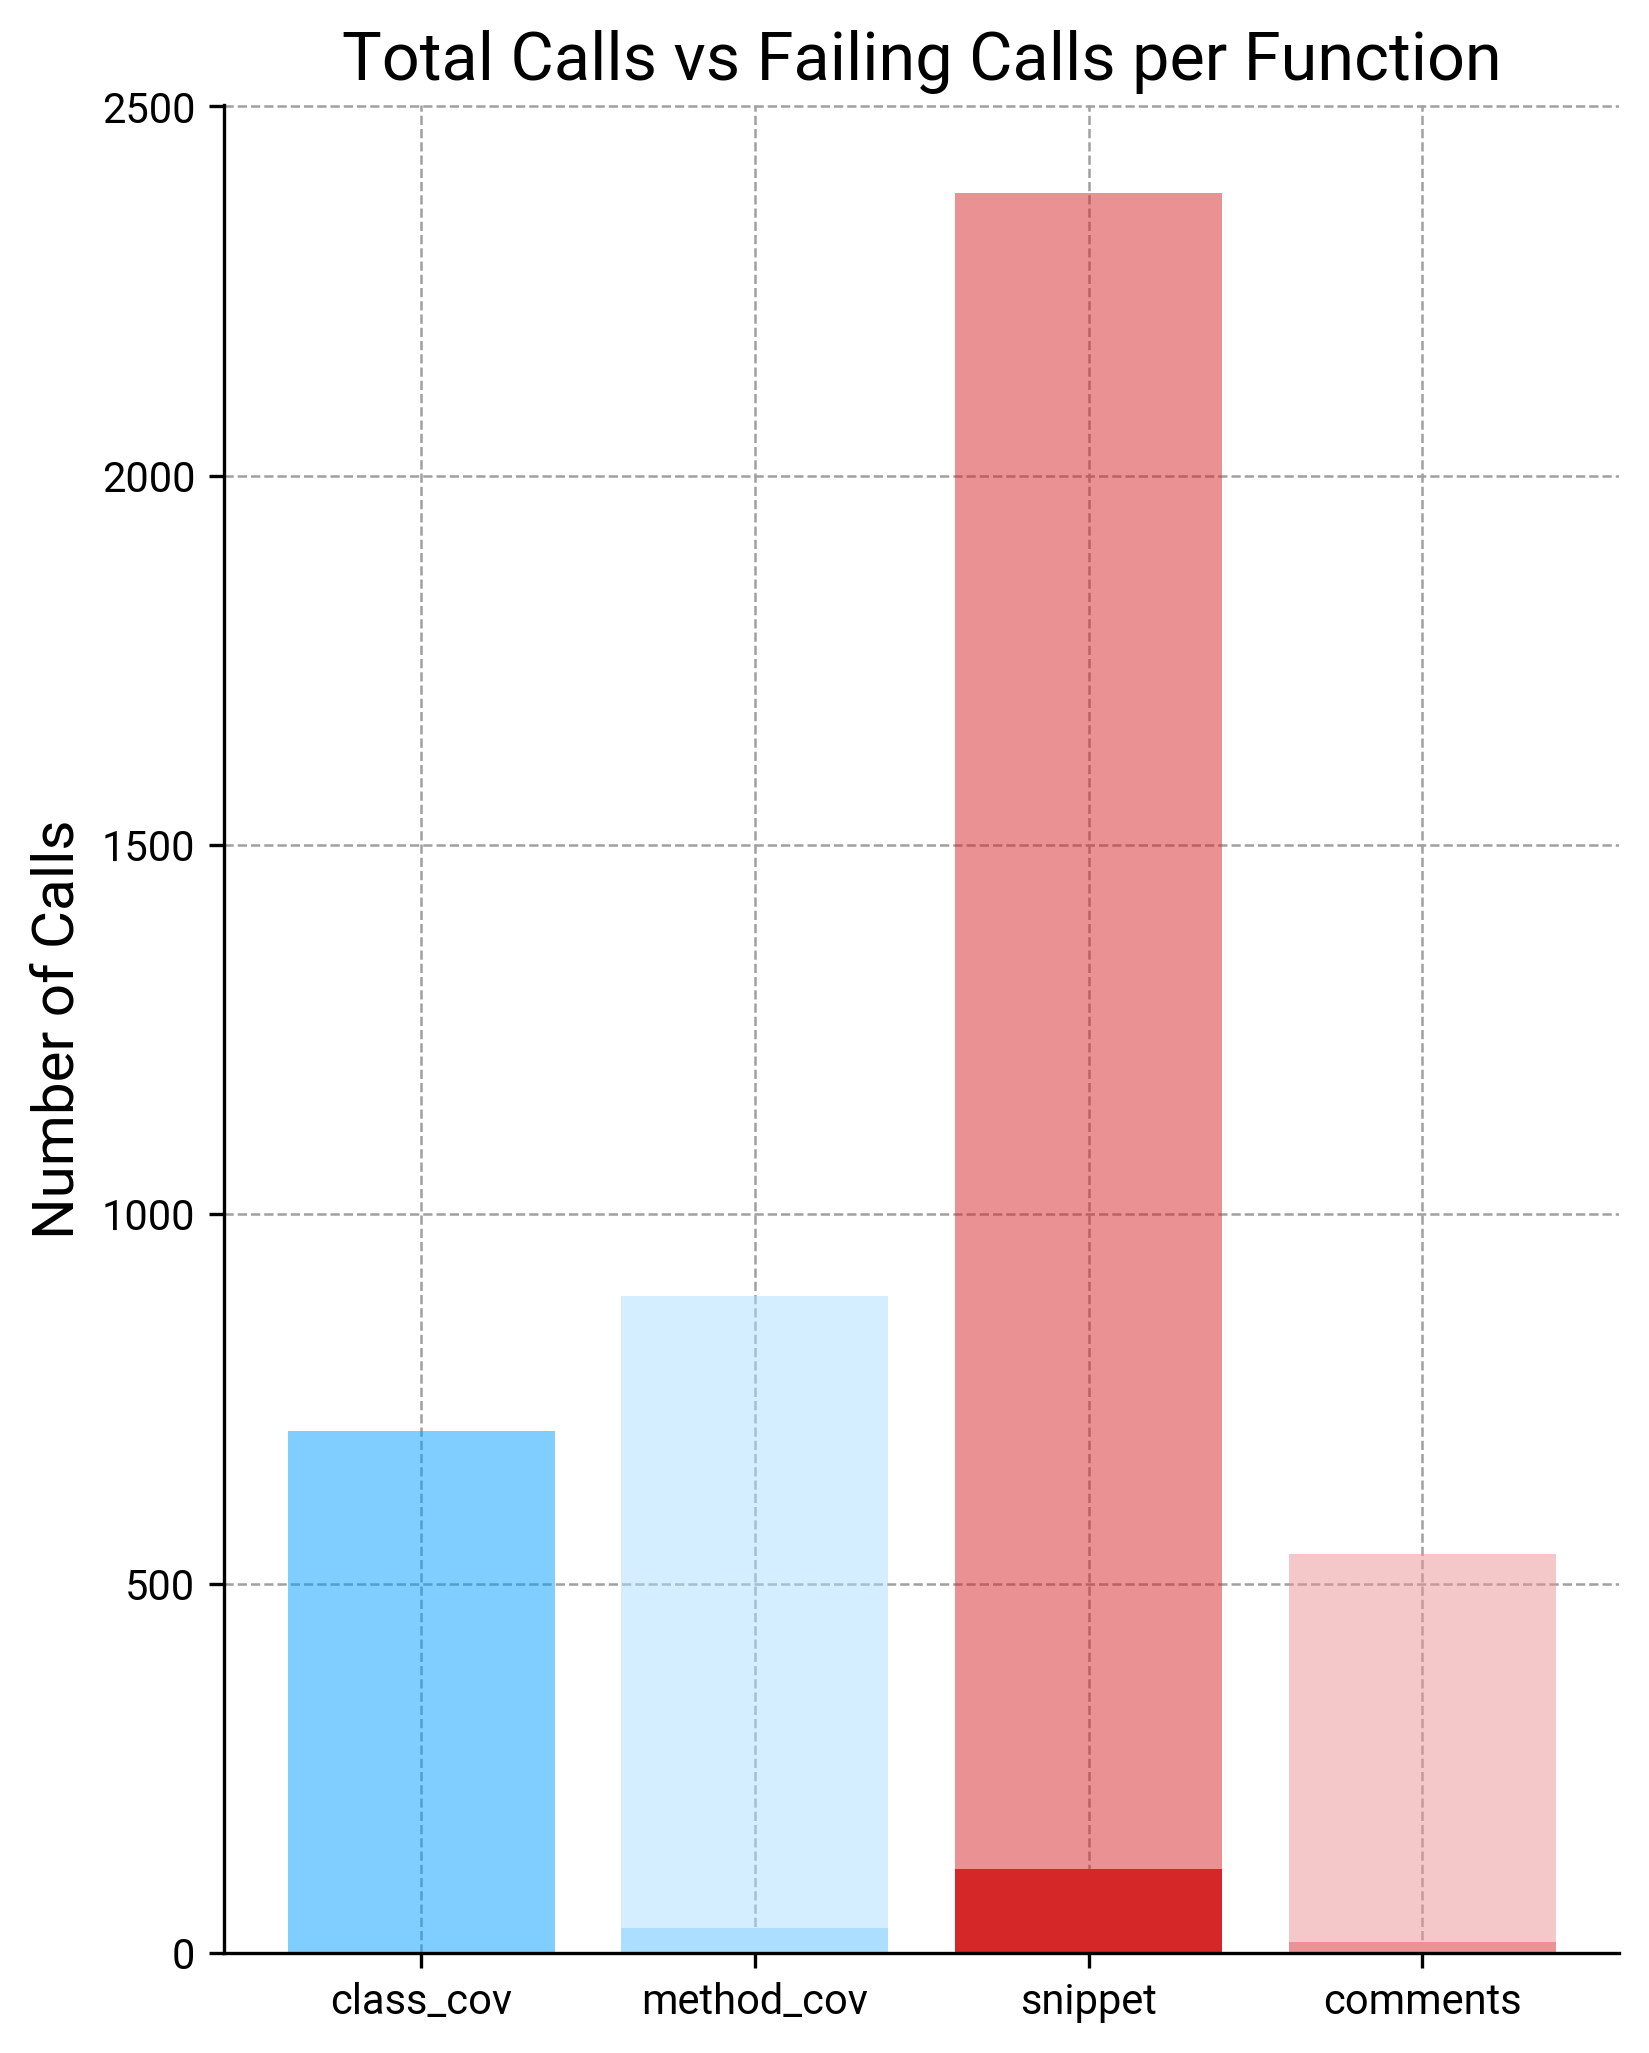
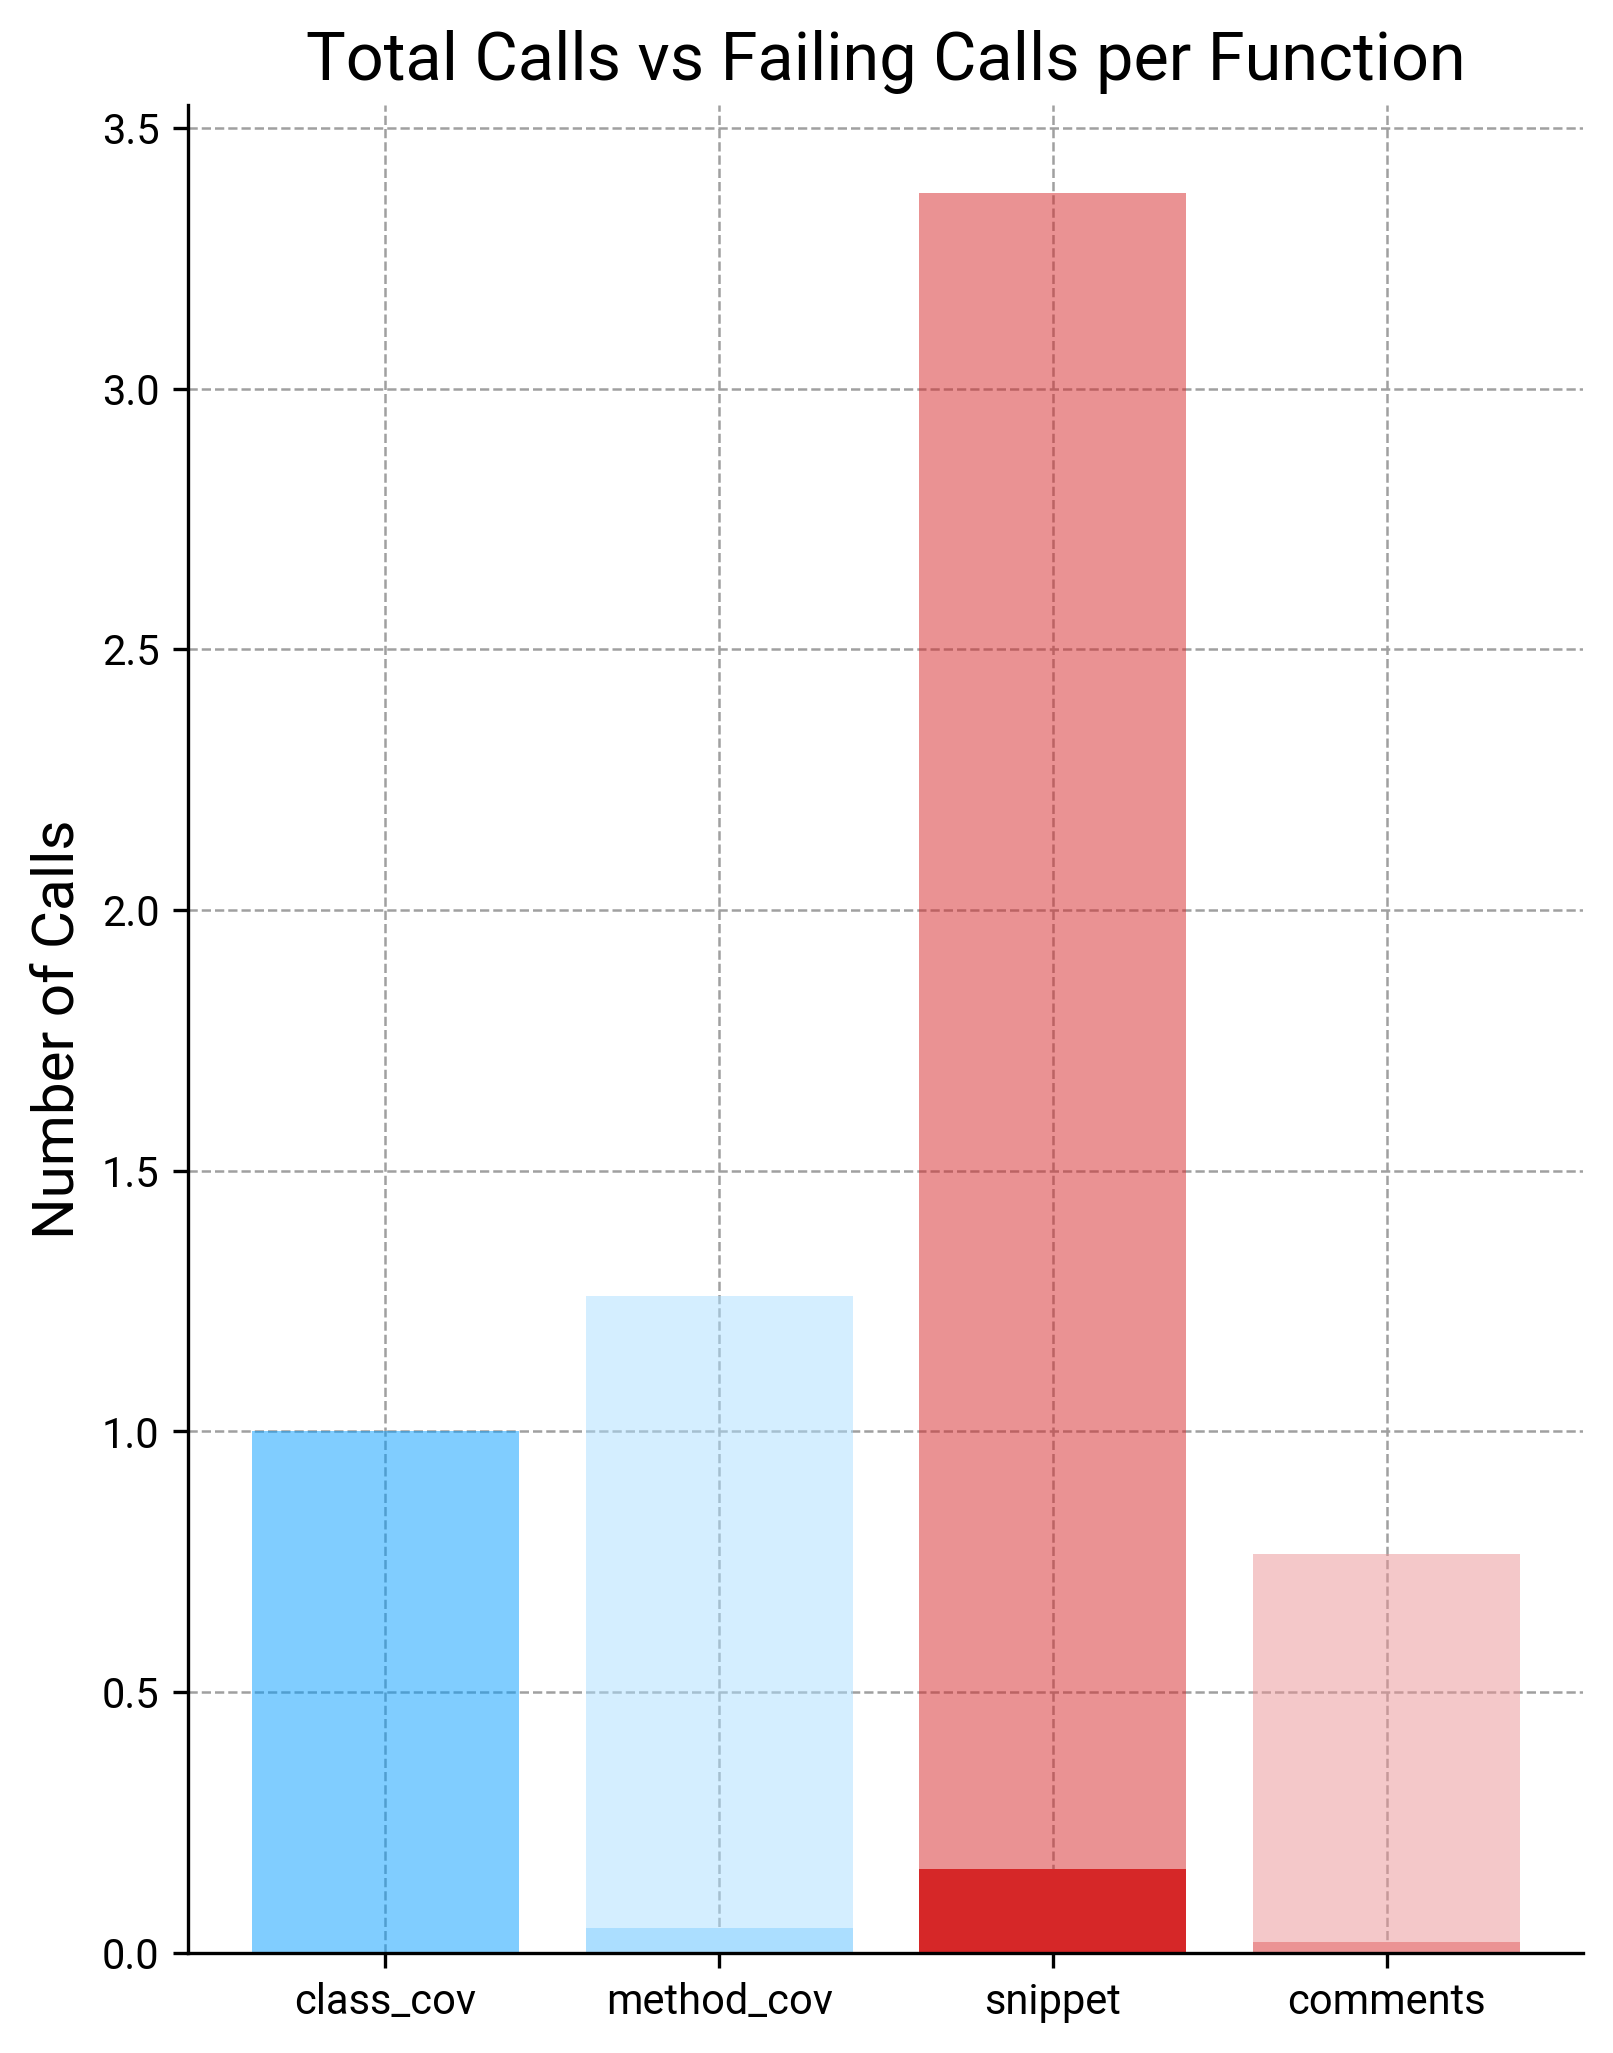
feat: normalize calls by num of runs / order bars of failure charts

diff --git a/analyze_function_calls.py b/analyze_function_calls.py
@@ -4,6 +4,11 @@ import argparse
 import matplotlib.pyplot as plt
 import numpy as np
 
+# for defects4j
+FUNCTION_INDICES = {'get_failing_tests_covered_classes': 0, 'get_failing_tests_covered_methods_for_class': 1,
+        'get_code_snippet': 2, 'get_comments': 3}
+FUNCTION_COLORS = ['039dff', 'ABDEFF', 'd62728', 'EB9394', '000000']
+FUNCTION_LABELS = ['class_cov', 'method_cov', 'snippet', 'comments', 'undefined']
 
 def file2bug(json_file):
     if not json_file.endswith(".json"):
@@ -57,19 +62,14 @@ def analyze_function_calls(result_dirs, project=None):
     
     return calls_by_step, total_calls, failing_calls
 
-def plot_horizontal_cumulative_bar_chart(data, path):
+def plot_call_distribution(data, total_runs, path):
     MAX_STEPS=11
     plt.style.use('style/style-formal.mplstyle')
-    func_indices = {'get_failing_tests_covered_classes': 0, 'get_failing_tests_covered_methods_for_class': 1,
-          'get_code_snippet': 2, 'get_comments': 3} # for defects4j
-    colors=['039dff', 'ABDEFF', 'd62728', 'EB9394', '000000']
-    func_labels = ['class_cov', 'method_cov', 'snippet', 'comments', 'undefined']
 
     labels = list(data.keys())
-    total_runs = data[labels[0]][0]
    
-    undefined_functions = [l for l in labels if l not in func_indices]
-    labels = sorted([l for l in labels if l in func_indices], key=lambda label: func_indices[label])
+    undefined_functions = [l for l in labels if l not in FUNCTION_INDICES]
+    labels = sorted([l for l in labels if l in FUNCTION_INDICES], key=lambda label: FUNCTION_INDICES[label])
     values = [data[label] for label in labels]
 
     if undefined_functions:
@@ -88,13 +88,13 @@ def plot_horizontal_cumulative_bar_chart(data, path):
     
     for i in range(len(labels)):
         try:
-            label_index = func_indices[labels[i]]
+            label_index = FUNCTION_INDICES[labels[i]]
         except:
             label_index = 4
         if i == 0:
-            ax.barh(y, values[i], label=func_labels[label_index], color=f'#{colors[label_index]}', tick_label=[f'Step {i}' for i in range(MAX_STEPS)])
+            ax.barh(y, values[i], label=FUNCTION_LABELS[label_index], color=f'#{FUNCTION_COLORS[label_index]}', tick_label=[f'Step {i}' for i in range(MAX_STEPS)])
         else:
-            ax.barh(y, values[i], left=cumulative_values[i-1], label=func_labels[label_index], color=f'#{colors[label_index]}', tick_label=[f'Step {i}' for i in range(MAX_STEPS)])
+            ax.barh(y, values[i], left=cumulative_values[i-1], label=FUNCTION_LABELS[label_index], color=f'#{FUNCTION_COLORS[label_index]}', tick_label=[f'Step {i}' for i in range(MAX_STEPS)])
     
     ax.set_xlabel('Proportion of Runs')
     ax.set_title('Function Call Distribution at Each Step')
@@ -103,18 +103,13 @@ def plot_horizontal_cumulative_bar_chart(data, path):
     ax.set_ylim(len(data[labels[0]]) - 0.5, -0.5)
     plt.savefig(path, bbox_inches='tight')
 
-def plot_function_calls(total_calls, failing_calls, path):
-    func_indices = {'get_failing_tests_covered_classes': 0, 'get_failing_tests_covered_methods_for_class': 1,
-          'get_code_snippet': 2, 'get_comments': 3} # for defects4j
-    colors=['039dff', 'ABDEFF', 'd62728', 'EB9394', '000000']
-    func_labels = ['class_cov', 'method_cov', 'snippet', 'comments', 'undefined']
+def plot_failing_calls(total_calls, failing_calls, total_runs, path):
+    functions = sorted([f for f in list(total_calls.keys()) if f in FUNCTION_INDICES], key=lambda func: FUNCTION_INDICES[func])
+    total_values = [total_calls[func] / total_runs for func in functions]
+    failing_values = [failing_calls[func] / total_runs for func in functions]
 
-    functions = [f for f in list(total_calls.keys()) if f in func_indices]
-    total_values = [total_calls[func] for func in functions]
-    failing_values = [failing_calls[func] for func in functions]
-
-    translated_colors = [f'#{colors[func_indices[f]]}' for f in functions]
-    translated_labels = [func_labels[func_indices[f]] for f in functions]
+    translated_colors = [f'#{FUNCTION_COLORS[FUNCTION_INDICES[f]]}' for f in functions]
+    translated_labels = [FUNCTION_LABELS[FUNCTION_INDICES[f]] for f in functions]
 
     x = np.arange(len(functions))
 
@@ -136,8 +131,9 @@ if __name__ == '__main__':
     args = parser.parse_args()
 
     calls_by_step, total, failing = analyze_function_calls(args.result_dirs, args.project)
-    plot_horizontal_cumulative_bar_chart(calls_by_step, f'{args.output}_distribution.png')
-    plot_function_calls(total, failing, f'{args.output}_failing_rate.png')
+    total_runs = calls_by_step[list(calls_by_step.keys())[0]][0]
+    plot_call_distribution(calls_by_step, total_runs, f'{args.output}_distribution.png')
+    plot_failing_calls(total, failing, total_runs, f'{args.output}_failing_rate.png')
 
     with open(f'{args.output}.json', "w") as f:
         json.dump({'total': total, 'failing': failing, 'steps': calls_by_step}, f, indent=4)
